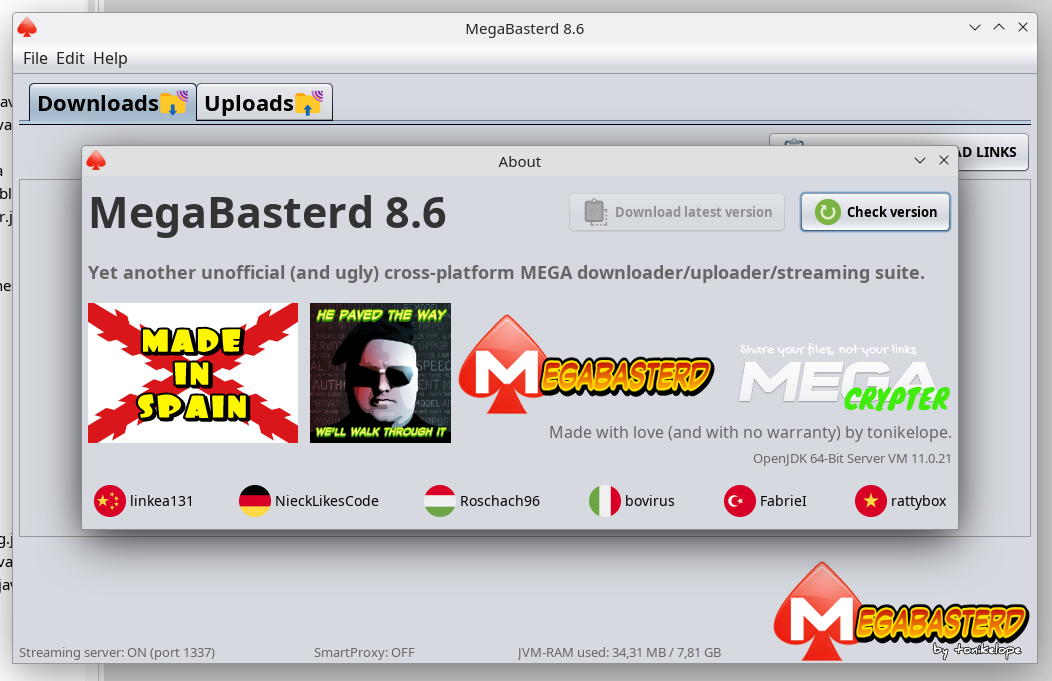
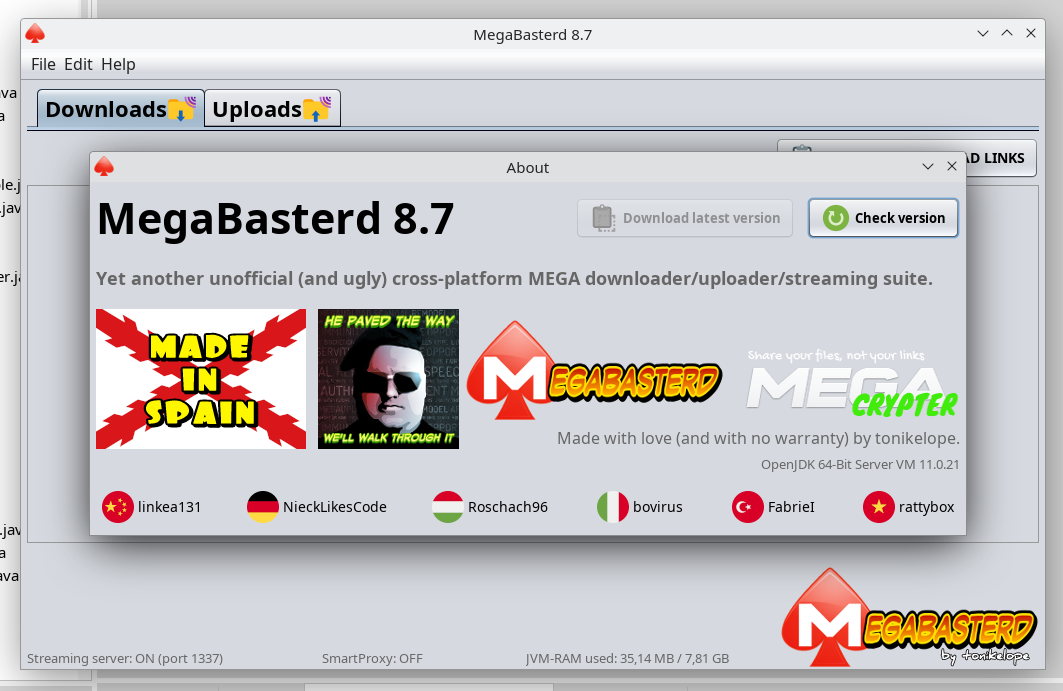
8.7
Folder cache for subfolders fix

diff --git a/src/main/java/com/tonikelope/megabasterd/MegaAPI.java b/src/main/java/com/tonikelope/megabasterd/MegaAPI.java
@@ -39,6 +39,7 @@ import java.util.logging.Logger;
 import java.util.zip.GZIPInputStream;
 import javax.net.ssl.HttpsURLConnection;
 import javax.net.ssl.SSLException;
+import javax.swing.JOptionPane;
 import javax.swing.JProgressBar;
 
 /**
@@ -1232,8 +1233,14 @@ public class MegaAPI implements Serializable {
 
             String[] folder_parts = entry.getKey().split(":");
 
+            int r = -1;
+
+            if (existsCachedFolderNodes(folder_parts[0])) {
+                r = JOptionPane.showConfirmDialog(MainPanelView.getINSTANCE(), "Do you want to use FOLDER [" + folder_parts[0] + "] CACHED VERSION?\n\n(It could speed up the loading of very large folders)", "FOLDER CACHE", JOptionPane.YES_NO_OPTION);
+            }
+
             try {
-                nlinks.addAll(getNLinksFromFolder(folder_parts[0], folder_parts[1], entry.getValue()));
+                nlinks.addAll(getNLinksFromFolder(folder_parts[0], folder_parts[1], entry.getValue(), (r == 0)));
             } catch (Exception ex) {
                 Logger.getLogger(MegaAPI.class.getName()).log(Level.SEVERE, null, ex);
             }
@@ -1244,15 +1251,30 @@ public class MegaAPI implements Serializable {
 
     }
 
-    public ArrayList<String> getNLinksFromFolder(String folder_id, String folder_key, ArrayList<String> file_ids) throws Exception {
+    public ArrayList<String> getNLinksFromFolder(String folder_id, String folder_key, ArrayList<String> file_ids, boolean cache) throws Exception {
 
         ArrayList<String> nlinks = new ArrayList<>();
 
-        String request = "[{\"a\":\"f\", \"c\":\"1\", \"r\":\"1\", \"ca\":\"1\"}]";
+        String res = null;
 
-        URL url_api = new URL(API_URL + "/cs?id=" + String.valueOf(_seqno) + "&n=" + folder_id);
+        if (cache) {
+            res = getCachedFolderNodes(folder_id);
+        }
 
-        String res = RAW_REQUEST(request, url_api);
+        if (res == null) {
+
+            String request = "[{\"a\":\"f\", \"c\":\"1\", \"r\":\"1\", \"ca\":\"1\"}]";
+
+            URL url_api = new URL(API_URL + "/cs?id=" + String.valueOf(_seqno) + "&n=" + folder_id);
+
+            res = RAW_REQUEST(request, url_api);
+
+            if (res != null) {
+                writeCachedFolderNodes(folder_id, res);
+            }
+        }
+
+        LOG.log(Level.INFO, "MEGA FOLDER {0} JSON FILE TREE SIZE -> {1}", new Object[]{folder_id, MiscTools.formatBytes((long) res.length())});
 
         if (res != null) {
 

diff --git a/src/main/java/com/tonikelope/megabasterd/FolderLinkDialog.java b/src/main/java/com/tonikelope/megabasterd/FolderLinkDialog.java
@@ -47,6 +47,12 @@ public class FolderLinkDialog extends javax.swing.JDialog {
 
     private volatile boolean exit = false;
 
+    @Override
+    public void dispose() {
+        file_tree.setModel(null);
+        super.dispose();
+    }
+
     public List<HashMap> getDownload_links() {
         return Collections.unmodifiableList(_download_links);
     }
@@ -430,6 +436,17 @@ public class FolderLinkDialog extends javax.swing.JDialog {
 
             String folder_id = findFirstRegex("#F!([^!]+)", _link, 1);
 
+            String subfolder_id = null;
+
+            if (folder_id.contains("@")) {
+
+                String[] fids = folder_id.split("@");
+
+                folder_id = fids[0];
+
+                subfolder_id = fids[1];
+            }
+
             int r = -1;
 
             if (ma.existsCachedFolderNodes(folder_id)) {
@@ -441,17 +458,6 @@ public class FolderLinkDialog extends javax.swing.JDialog {
                 MiscTools.GUIRun(() -> {
                     folder_link_label.setText(_link + " (CACHED VERSION)");
                 });
-            }
-
-            String subfolder_id = null;
-
-            if (folder_id.contains("@")) {
-
-                String[] fids = folder_id.split("@");
-
-                folder_id = fids[0];
-
-                subfolder_id = fids[1];
             }
 
             String folder_key = findFirstRegex("#F![^!]+!(.+)", _link, 1);

diff --git a/src/main/java/com/tonikelope/megabasterd/MainPanel.java b/src/main/java/com/tonikelope/megabasterd/MainPanel.java
@@ -70,7 +70,7 @@ import javax.swing.UIManager;
  */
 public final class MainPanel {
 
-    public static final String VERSION = "8.6";
+    public static final String VERSION = "8.7";
     public static final boolean FORCE_SMART_PROXY = false; //TRUE FOR DEBUGING SMART PROXY
     public static final int THROTTLE_SLICE_SIZE = 16 * 1024;
     public static final int DEFAULT_BYTE_BUFFER_SIZE = 16 * 1024;
@@ -393,11 +393,6 @@ public final class MainPanel {
 
         resumeUploads();
 
-        /* NOT REQUIRED 
-        if (MegaAPI.API_KEY == null && JOptionPane.showConfirmDialog(this._view, LabelTranslatorSingleton.getInstance().translate("WARNING: USING MEGA API WITHOUT API KEY MAY VIOLATE ITS TERM OF USE.\n\nYOU SHOULD GET A KEY -> https://mega.nz/sdk (and set it in MegaBasterd ADVANCED SETTINGS).\n\nCREATE API KEY NOW?"), "MEGA API KEY ERROR", JOptionPane.ERROR_MESSAGE) == 0) {
-            openBrowserURL("https://mega.nz/sdk");
-
-        }*/
     }
 
     public static Boolean getResume_uploads() {

diff --git a/src/main/java/com/tonikelope/megabasterd/MainPanelView.java b/src/main/java/com/tonikelope/megabasterd/MainPanelView.java
@@ -62,6 +62,12 @@ public final class MainPanelView extends javax.swing.JFrame {
 
     private final MainPanel _main_panel;
 
+    private static volatile MainPanelView INSTANCE = null;
+
+    public static MainPanelView getINSTANCE() {
+        return INSTANCE;
+    }
+
     public JMenuItem getMerge_file_menu() {
         return merge_file_menu;
     }
@@ -539,6 +545,7 @@ public final class MainPanelView extends javax.swing.JFrame {
             pack();
         });
 
+        INSTANCE = this;
     }
 
     /**

diff --git a/src/main/java/com/tonikelope/megabasterd/FileGrabberDialog.java b/src/main/java/com/tonikelope/megabasterd/FileGrabberDialog.java
@@ -56,6 +56,12 @@ public class FileGrabberDialog extends javax.swing.JDialog {
     private int _last_selected_index;
     private List<File> _drag_drop_files;
 
+    @Override
+    public void dispose() {
+        file_tree.setModel(null);
+        super.dispose();
+    }
+
     public JCheckBox getPriority_checkbox() {
         return priority_checkbox;
     }
